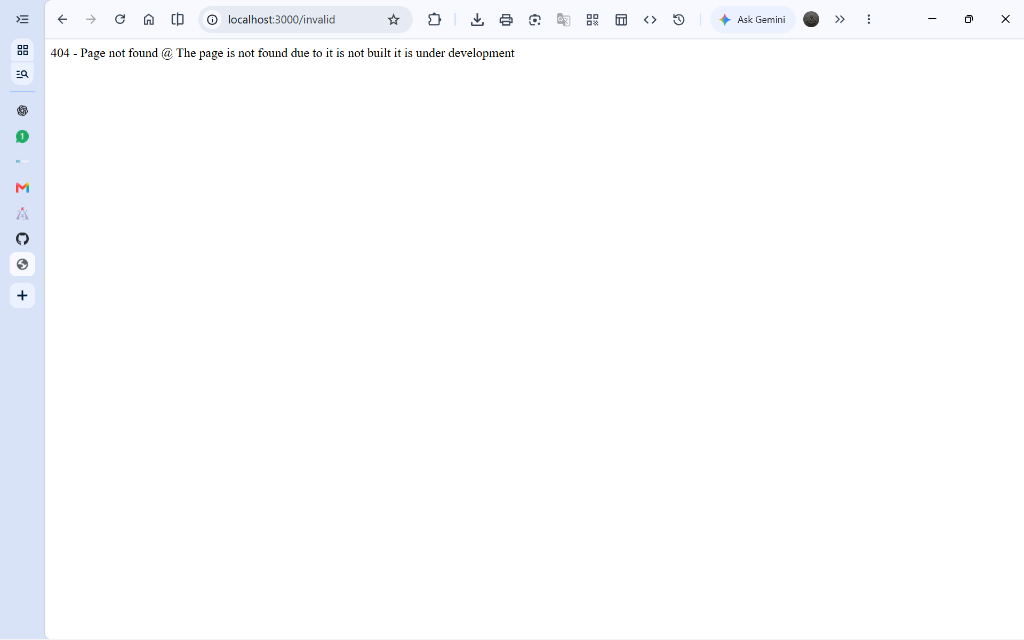
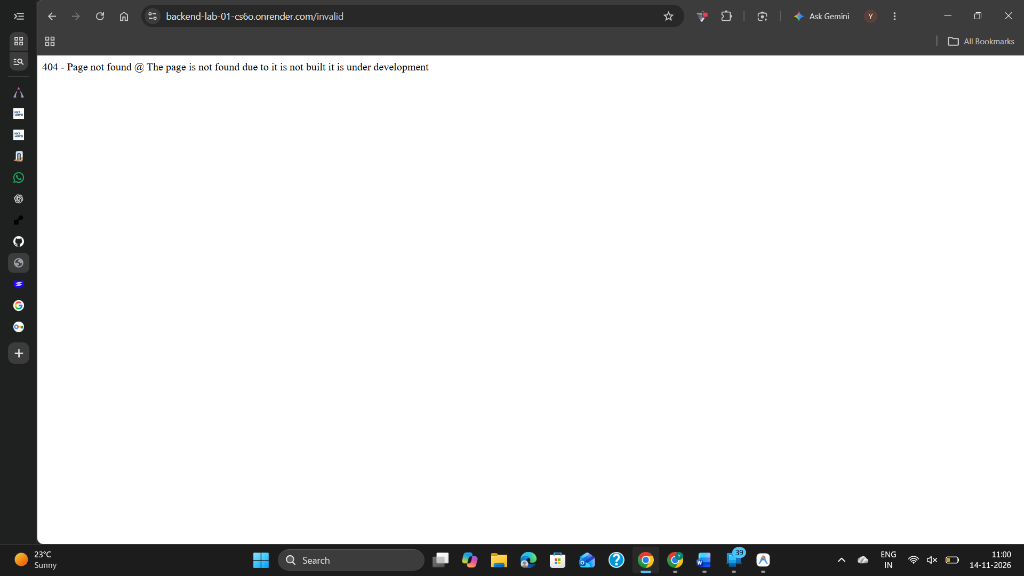
Update lab-01 screenshots and deployed link

Changed region(s): [[0.0, 0.0, 1.0, 1.0]]

diff --git a/Backend-Development-Fundamentals-main/lab-01/README.md b/Backend-Development-Fundamentals-main/lab-01/README.md
@@ -6,7 +6,7 @@
 - **Registration Number:** 252U1R8090
 - **Section:** CSE(QE)-2B - 204
 
-**Deployed link:** https://backend-development-fundamentals-62ec.onrender.com
+**Deployed link:** https://backend-lab-01-cs6o.onrender.com
 
 ## Objective
 
